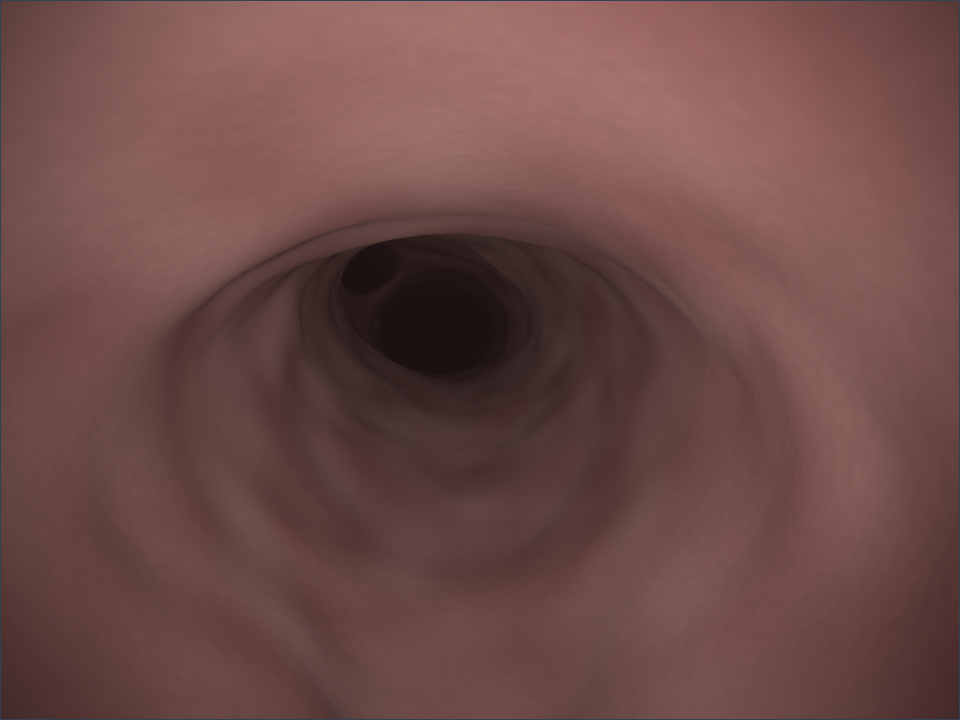
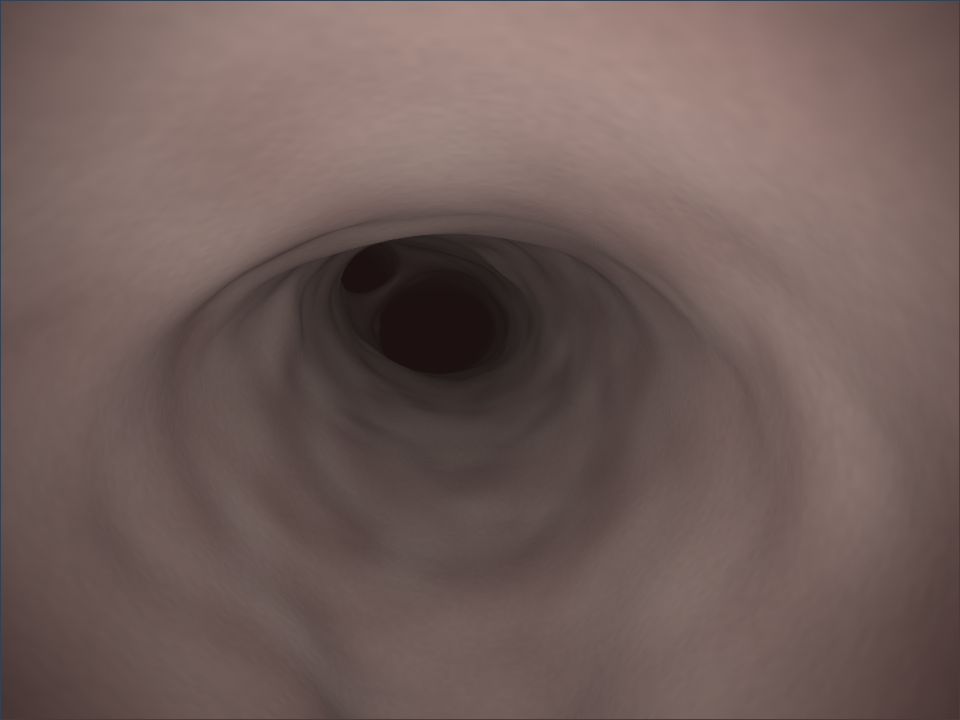
feat(dolphin-bronchoscopy): the glottis face on, and steering on the view
- Section 13 starts at the foot of the nasopharynx facing the spout tip (41.5 mm, look 20° down),
  so the triangular glottis is the first thing in the view. Scope starts can carry a look offset.
- Frames re-rendered on the rebuilt case; spout-approach is now the glottis face on. The fornix
  case uses the view from above, where the spaces beside the spout show.
- Sections 03 and 13 describe the glottis as seen: a triangular opening through the pale,
  rounded tip, apex dorsal (Tsang's "rosette" kept). Copy that pointed at the steering ring
  now points at the arrows and Advance/Withdraw on the view.
- README: the spout modelling and the owner questions it raises (apex orientation, the dark
  rounded structure in the photographs, using them as stills).
- render-frames: DOLPHIN_CASE_DIR serves a scratch case build; overlay controls are removed
  before each screenshot.

Changed region(s): [[0.1875, 0.0, 0.9062, 0.275]]

diff --git a/src/features/dolphin-bronchoscopy/content/sections/from-blowhole-to-spout.ts b/src/features/dolphin-bronchoscopy/content/sections/from-blowhole-to-spout.ts
@@ -25,7 +25,7 @@ export const fromBlowholeToSpout: DolphinSectionDefinition = {
     ],
   },
   recognizeInstruction:
-    'The scope sits in the left bony nasal passage. Look at the Simulator panel: the view, the steering ring and the Advance and Withdraw buttons.',
+    'The scope sits in the left bony nasal passage. Look at the Simulator panel: the view, with the steering arrows at its lower left and Advance and Withdraw at its lower right.',
   blocks: [
     {
       id: 'the-nasal-stage',
@@ -41,7 +41,7 @@ export const fromBlowholeToSpout: DolphinSectionDefinition = {
       kind: 'signals',
       role: 'framing',
       heading: 'Driving the scope',
-      body: 'Steer with the ring or the arrow keys, then advance. The scope enters the opening you point at. Drag on the view to look around. Labels name the openings ahead.',
+      body: 'Steer with the arrows on the view or the arrow keys, then advance. The scope enters the opening you point at. Drag on the view to look around. Labels name the openings ahead.',
       sourceIds: ['dolphin-001-ct'],
     },
     {
@@ -49,7 +49,7 @@ export const fromBlowholeToSpout: DolphinSectionDefinition = {
       kind: 'after-commitment',
       role: 'normal-reference',
       heading: 'The glottis at the spout tip',
-      body: 'The glottis opens at the tip of the laryngeal spout, in the midline of the nasopharynx. On each side of the spout is a nasopharyngeal fornix: a blind pouch that can look like an open lumen from above.\n\nThe spout and the glottis move with each breath. The wall of a fornix does not open that way.',
+      body: 'The glottis opens at the tip of the laryngeal spout, in the midline of the nasopharynx: a triangular opening through the pale, rounded tip, its apex dorsal. On each side of the spout is a nasopharyngeal fornix: a blind pouch that can look like an open lumen from above.\n\nThe spout and the glottis move with each breath. The wall of a fornix does not open that way.',
       sourceIds: ['tsang-2002', 'nmmp-bronchoscopy-guide', 'dolphin-001-ct'],
     },
     {

diff --git a/src/features/dolphin-bronchoscopy/content/sections/entering-the-blowhole.ts b/src/features/dolphin-bronchoscopy/content/sections/entering-the-blowhole.ts
@@ -45,7 +45,7 @@ export const enteringTheBlowhole: DolphinSectionDefinition = {
       kind: 'signals',
       role: 'signals',
       heading: 'What you see at the spout',
-      body: 'The nasopharynx is 4–5 cm across and often holds copious, tenacious mucus. The laryngeal spout rises pale pink in its center. The glottis at its tip is rosette-shaped, with no epiglottis over it. Shut, it shows no lumen; open, it shows a dark lumen for an instant.',
+      body: 'The nasopharynx is 4–5 cm across and often holds copious, tenacious mucus. The laryngeal spout rises pale pink in its center and ends in a rounded tip. The glottis there has no epiglottis over it. Tsang describes it as rosette-shaped; face on, it is a triangular opening with its apex dorsal, at the top of the screen. Shut, it shows no lumen; open, it shows a dark lumen for an instant.',
       numberIds: ['nasopharynx-width'],
       sourceIds: ['tsang-2002'],
     },
@@ -54,7 +54,7 @@ export const enteringTheBlowhole: DolphinSectionDefinition = {
       kind: 'signals',
       role: 'framing',
       heading: 'The breathing cue',
-      body: 'The cue above the view changes from breath-hold to breath. Watch the glottis in the view as it changes. Steer with the ring, then use Advance and Withdraw.',
+      body: 'The cue above the view changes from breath-hold to breath. Watch the glottis in the view as it changes. Steer with the arrows at the lower left of the view, then use Advance and Withdraw at its lower right.',
       sourceIds: ['dolphin-001-ct'],
     },
     {

diff --git a/src/features/dolphin-bronchoscopy/content/frameBank.ts b/src/features/dolphin-bronchoscopy/content/frameBank.ts
@@ -75,10 +75,10 @@ export const DOLPHIN_FRAMES: readonly DolphinFrame[] = [
     location: 'NPX',
     orientation: 'sternal',
     preCommitAlt:
-      'A smooth wall with a round opening right of center and a slit-like recess to its left.',
+      'A pale, rounded mound fills the view; at its center a triangular opening, apex up, leads into a narrower tube.',
     postCommitAlt:
-      'The foot of the nasopharynx: the round opening is the glottis at the tip of the laryngeal spout; the recess to its left leads into a nasopharyngeal fornix.',
-    rights: { ...RENDER, pose: { edgeId: 1, distanceMm: 41.5 } },
+      'The foot of the nasopharynx, facing the tip of the laryngeal spout: the triangular opening, apex dorsal, is the glottis.',
+    rights: { ...RENDER, pose: { edgeId: 1, distanceMm: 41.5, pitchDeg: -20 } },
   },
   {
     id: 'spout-from-above',
@@ -87,7 +87,7 @@ export const DOLPHIN_FRAMES: readonly DolphinFrame[] = [
     location: 'NPX',
     orientation: 'sternal',
     preCommitAlt:
-      'A rounded projection rises into the chamber, with a small tip, and spaces open beyond and beside it.',
+      'A rounded projection rises into the chamber with an opening at its tip, and spaces open beyond and beside it.',
     postCommitAlt:
       'The laryngeal spout rising into the nasopharynx, seen from above: the glottis is at its tip, the fornices beside and beyond it.',
     rights: { ...RENDER, pose: { edgeId: 1, distanceMm: 20 } },

diff --git a/src/features/dolphin-bronchoscopy/content/scopeStarts.ts b/src/features/dolphin-bronchoscopy/content/scopeStarts.ts
@@ -14,6 +14,9 @@ export interface ScopeStart {
   readonly distanceMm: number
   /** The centerline label the start must sit on. */
   readonly abbr: string
+  /** A look offset from the centerline at the start, so the first view frames its subject. */
+  readonly yawDeg?: number
+  readonly pitchDeg?: number
   /** What the learner sees first, in one line. */
   readonly description: string
 }
@@ -36,8 +39,9 @@ export const DOLPHIN_SCOPE_STARTS: Readonly<Record<ScopeStartId, ScopeStart>> = 
   'spout-approach': {
     id: 'spout-approach',
     edgeId: 1,
-    distanceMm: 39,
+    distanceMm: 41.5,
     abbr: 'NPX',
+    pitchDeg: -20,
     description: 'At the foot of the nasopharynx, facing the tip of the laryngeal spout.',
   },
   larynx: {

diff --git a/src/features/dolphin-bronchoscopy/components/simulator/DolphinScopePane.tsx b/src/features/dolphin-bronchoscopy/components/simulator/DolphinScopePane.tsx
@@ -43,7 +43,13 @@ export function DolphinScopePane({
   }, [])
   const embed = useMemo<AirwayAnatomyEmbedOptions>(
     () => ({
-      start: { edgeId: start.edgeId, distanceMm: start.distanceMm, key: startKey },
+      start: {
+        edgeId: start.edgeId,
+        distanceMm: start.distanceMm,
+        yawDeg: start.yawDeg,
+        pitchDeg: start.pitchDeg,
+        key: startKey,
+      },
       branchLabels: workspace.labels,
       showLocation: workspace.showLocation,
       chrome: {

diff --git a/src/features/dolphin-bronchoscopy/content/integratedCases.ts b/src/features/dolphin-bronchoscopy/content/integratedCases.ts
@@ -492,7 +492,7 @@ export const DOLPHIN_INTEGRATED_CASES: readonly DolphinIntegratedCase[] = [
         troubleRowId: 'fornix',
         situation:
           'Three openings lie ahead. You steer toward the largest, on the left. It ends in a smooth blind pouch, and nothing moves with the next breath.',
-        media: { frameId: 'spout-approach' },
+        media: { frameId: 'spout-from-above' },
         prompt: 'What now?',
         choices: [
           {

diff --git a/scripts/dolphin-bronchoscopy/frame-harness.tsx b/scripts/dolphin-bronchoscopy/frame-harness.tsx
@@ -50,6 +50,8 @@ if (!frame || frame.rights.kind !== 'simulator-render') {
       ? {
           edgeId: DOLPHIN_SCOPE_STARTS[pose.start].edgeId,
           distanceMm: DOLPHIN_SCOPE_STARTS[pose.start].distanceMm,
+          yawDeg: DOLPHIN_SCOPE_STARTS[pose.start].yawDeg,
+          pitchDeg: DOLPHIN_SCOPE_STARTS[pose.start].pitchDeg,
         }
       : pose
   root.render(

diff --git a/docs/dolphin-bronchoscopy/README.md b/docs/dolphin-bronchoscopy/README.md
@@ -101,3 +101,9 @@ must be applied from the primary checkout before the first beta-hub feedback pos
     temperature in 20–60 mL aliquots. The module teaches Tsang's warm saline; pick one or teach both.
 14. Flumazenil: the only dose found is Ivančić's, given after CT; the practice case says so.
 15. Asset weight: about 5 MB per scope section, 36 MB where the CT is loaded (sections that read it).
+16. The spout tip as displayed is modelled on the owner's bronchoscopy photographs of entering the
+    goosebeak (2026-11-03): a pale rounded tip with a triangular glottis, apex dorsal. The CT slit is
+    about 8 × 3 mm and its tip bevelled, so the build shapes the tip and the first 20 mm of the
+    lumen (`shape_spout_field`). Confirm the apex is dorsal, not ventral; name the dark, glossy
+    rounded structure at the lower left of the aperture in those photographs; and say whether the
+    photographs may be added as stills (they would enter the rights ledger above).
